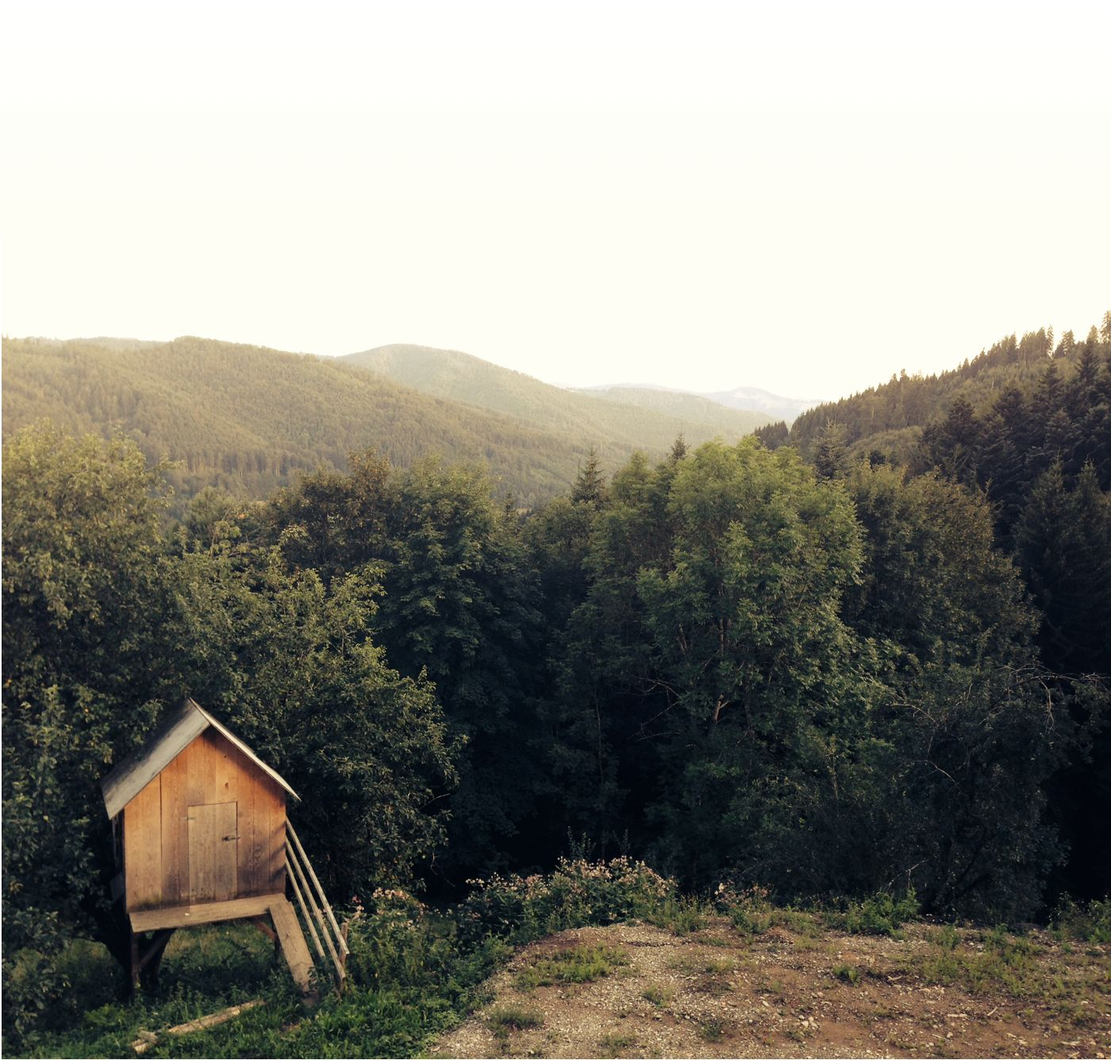
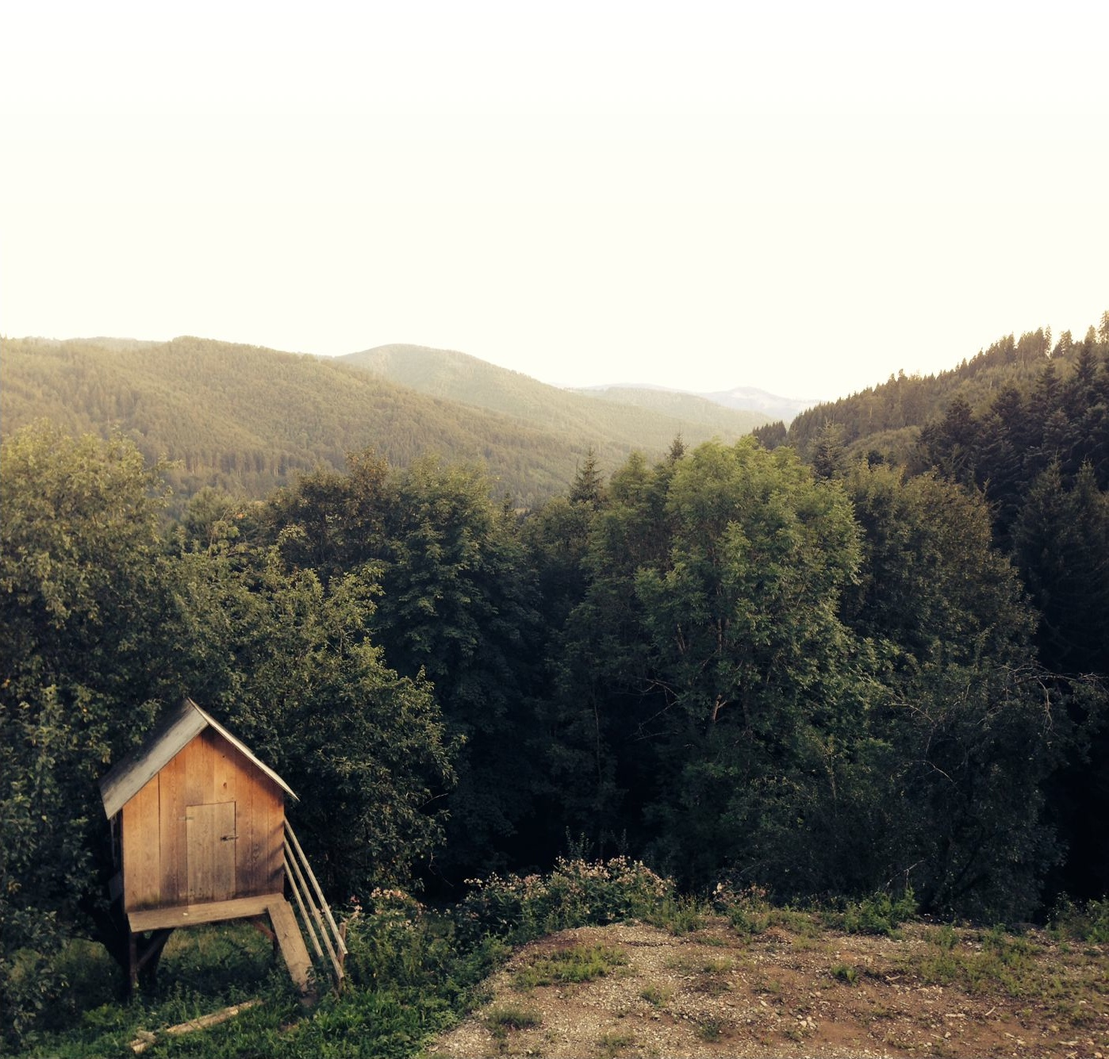
added menu on hover, click. edited bcg image of about

diff --git a/dist/styles/main.css b/dist/styles/main.css
@@ -1,1 +1,1 @@
[2 lines of base64/hex data omitted]

diff --git a/dist/navigation.html b/dist/navigation.html
@@ -1,1 +1,1 @@
-<nav class="visible"><div class="menu-button"><div class="icon"></div></div><div class="navigation-wrap"><ul><li class="sticked-top"><a href="http://moot.greenwoodents.com/"><div class="icon"><?xml version="1.0" encoding="UTF-8" standalone="no"?><svg width="14px" height="15px" viewbox="0 0 14 15" version="1.1" xmlns="http://www.w3.org/2000/svg" xmlns:xlink="http://www.w3.org/1999/xlink" xmlns:sketch="http://www.bohemiancoding.com/sketch/ns"><defs></defs><g id="Page-1" stroke="none" stroke-width="1" fill="none" fill-rule="evenodd" sketch:type="MSPage"><g id="all-pages-in-one" sketch:type="MSArtboardGroup" transform="translate(-1216.000000, -92.000000)"><g id="Home" sketch:type="MSLayerGroup" transform="translate(-64.000000, 40.000000)"><g id="we-plant-and-craft-app-to-endure" transform="translate(0.000000, 46.000000)"></g><g id="process:we-plant-and-craft-app-to-endure" transform="translate(0.000000, 46.000000)"></g><g id="menu:-homepage" transform="translate(1120.000000, 0.000000)"><g id="opened-menu"><g id="illustrations" transform="translate(137.000000, 56.000000)" class="shape" sketch:type="MSShapeGroup"><path d="M24.75,0.75862069 L35.25,0.75862069 L35.25,7.96551724 L30,7.96551724 C29.910375,7.96551724 29.8239375,7.99794828 29.755875,8.05674138 L27.75,9.79587931 L27.75,8.34482759 C27.75,8.13544828 27.582,7.96551724 27.375,7.96551724 L24.75,7.96551724 L24.75,0.75862069 Z M24,8.34482759 C24,8.5542069 24.168,8.72413793 24.375,8.72413793 L27,8.72413793 L27,10.6206897 C27,10.7688103 27.0853125,10.9034655 27.21825,10.9652931 C27.2685,10.9886207 27.32175,11 27.375,11 C27.46275,11 27.54975,10.9687069 27.619125,10.9087759 L30.13875,8.72413793 L35.625,8.72413793 C35.832,8.72413793 36,8.5542069 36,8.34482759 L36,0.379310345 C36,0.169931034 35.832,0 35.625,0 L24.375,0 C24.168,0 24,0.169931034 24,0.379310345 L24,8.34482759 Z M25.875,2.84482759 L34.125,2.84482759 C34.332,2.84482759 34.5,2.67489655 34.5,2.46551724 C34.5,2.25613793 34.332,2.0862069 34.125,2.0862069 L25.875,2.0862069 C25.668,2.0862069 25.5,2.25613793 25.5,2.46551724 C25.5,2.67489655 25.668,2.84482759 25.875,2.84482759 Z M25.875,4.74137931 L34.125,4.74137931 C34.332,4.74137931 34.5,4.57144828 34.5,4.36206897 C34.5,4.15268966 34.332,3.98275862 34.125,3.98275862 L25.875,3.98275862 C25.668,3.98275862 25.5,4.15268966 25.5,4.36206897 C25.5,4.57144828 25.668,4.74137931 25.875,4.74137931 Z M34.5,6.25862069 C34.5,6.04924138 34.332,5.87931034 34.125,5.87931034 L25.875,5.87931034 C25.668,5.87931034 25.5,6.04924138 25.5,6.25862069 C25.5,6.468 25.668,6.63793103 25.875,6.63793103 L34.125,6.63793103 C34.332,6.63793103 34.5,6.468 34.5,6.25862069 Z" id="Moot"></path></g></g></g></g></g></g></svg></div>Moot</a></li><li ng-class="{active: isActive('/home')}"><a href="#/home/"><div class="icon"><?xml version="1.0" encoding="UTF-8" standalone="no"?><svg width="14px" height="15px" viewbox="0 0 14 15" version="1.1" xmlns="http://www.w3.org/2000/svg" xmlns:xlink="http://www.w3.org/1999/xlink" xmlns:sketch="http://www.bohemiancoding.com/sketch/ns"><defs></defs><g id="Page-1" stroke="none" stroke-width="1" fill="none" fill-rule="evenodd" sketch:type="MSPage"><g id="all-pages-in-one" sketch:type="MSArtboardGroup" transform="translate(-1216.000000, -139.000000)"><g id="Home" sketch:type="MSLayerGroup" transform="translate(-64.000000, 40.000000)"><g id="we-plant-and-craft-app-to-endure" transform="translate(0.000000, 46.000000)"><g id="lines" transform="translate(0.000000, 40.000000)"></g></g><g id="process:we-plant-and-craft-app-to-endure" transform="translate(0.000000, 46.000000)"><g id="lines" transform="translate(0.000000, 40.000000)"></g></g><g id="menu:-homepage" transform="translate(1120.000000, 0.000000)"><g id="opened-menu"><g id="illustrations" transform="translate(137.000000, 56.000000)" class="shape" sketch:type="MSShapeGroup"><path d="M28.5,54.25 C28.293,54.25 28.125,54.418 28.125,54.625 L28.125,57.25 L26.625,57.25 L26.625,52 C26.625,51.793 26.4571875,51.625 26.25,51.625 L25.28025,51.625 L30,46.90525 L34.71975,51.625 L33.75,51.625 C33.543,51.625 33.375,51.793 33.375,52 L33.375,57.25 L31.875,57.25 L31.875,54.625 C31.875,54.418 31.7071875,54.25 31.5,54.25 L28.5,54.25 Z M31.5,58 L33.75,58 C33.9571875,58 34.125,57.832 34.125,57.625 L34.125,52.375 L35.625,52.375 C35.7766875,52.375 35.9135625,52.2836875 35.9715,52.143625 C36.029625,52.003375 35.997375,51.842125 35.890125,51.734875 L30.265125,46.109875 C30.1186875,45.9634375 29.8813125,45.9634375 29.734875,46.109875 L24.109875,51.734875 C24.002625,51.842125 23.97075,52.003375 24.0285,52.143625 C24.0868125,52.2836875 24.2233125,52.375 24.375,52.375 L25.875,52.375 L25.875,57.625 C25.875,57.832 26.043,58 26.25,58 L28.5,58 C28.7071875,58 28.875,57.832 28.875,57.625 L28.875,55 L31.125,55 L31.125,57.625 C31.125,57.832 31.293,58 31.5,58 L31.5,58 Z" id="HOME"></path></g></g></g></g></g></g></svg></div>Home</a></li><li ng-class="{active: isActive('/about')}"><a href="#/about/"><div class="icon"><?xml version="1.0" encoding="UTF-8" standalone="no"?><svg width="14px" height="15px" viewbox="0 0 14 15" version="1.1" xmlns="http://www.w3.org/2000/svg" xmlns:xlink="http://www.w3.org/1999/xlink" xmlns:sketch="http://www.bohemiancoding.com/sketch/ns"><defs></defs><g id="Page-1" stroke="none" stroke-width="1" fill="none" fill-rule="evenodd" sketch:type="MSPage"><g id="all-pages-in-one" sketch:type="MSArtboardGroup" transform="translate(-1191.000000, -172.000000)"><g id="Home" sketch:type="MSLayerGroup" transform="translate(-64.000000, 40.000000)"><g id="we-plant-and-craft-app-to-endure" transform="translate(0.000000, 46.000000)"><g id="lines" transform="translate(0.000000, 40.000000)"></g></g><g id="process:we-plant-and-craft-app-to-endure" transform="translate(0.000000, 46.000000)"><g id="lines" transform="translate(0.000000, 40.000000)"></g></g><g id="menu:-homepage" transform="translate(1120.000000, 0.000000)" class="shape" sketch:type="MSShapeGroup"><g id="opened-menu"><g id="illustrations" transform="translate(137.000000, 56.000000)"><path d="M2.625,80.2802688 L2.625,81.6250188 L1.28025,81.6250188 L2.625,80.2802688 Z M8.25,79.7500187 L8.25,90.2500187 L0.75,90.2500187 L0.75,82.3750187 L2.625,82.3750187 C3.038625,82.3750187 3.375,82.0386437 3.375,81.6250187 L3.375,79.7500187 L8.25,79.7500187 Z M8.25,91.0000187 C8.663625,91.0000187 9,90.6636437 9,90.2500187 L9,79.7500187 C9,79.3363937 8.663625,79.0000187 8.25,79.0000187 L3.375,79.0000187 C3.067875,79.0000187 2.68725,79.1577062 2.46975,79.3750187 L0.375,81.4695812 C0.1576875,81.6868937 0,82.0675187 0,82.3750187 L0,90.2500187 C0,90.6636437 0.336375,91.0000187 0.75,91.0000187 L8.25,91.0000187 Z M4.5,82 L6.75,82 C6.957,82 7.125,81.832 7.125,81.625 C7.125,81.418 6.957,81.25 6.75,81.25 L4.5,81.25 C4.293,81.25 4.125,81.418 4.125,81.625 C4.125,81.832 4.293,82 4.5,82 Z M6.75,83.125 L2.25,83.125 C2.043,83.125 1.875,83.293 1.875,83.5 C1.875,83.707 2.043,83.875 2.25,83.875 L6.75,83.875 C6.957,83.875 7.125,83.707 7.125,83.5 C7.125,83.293 6.957,83.125 6.75,83.125 Z M6.75,85 L2.25,85 C2.043,85 1.875,85.168 1.875,85.375 C1.875,85.582 2.043,85.75 2.25,85.75 L6.75,85.75 C6.957,85.75 7.125,85.582 7.125,85.375 C7.125,85.168 6.957,85 6.75,85 Z M6.75,86.875 L2.25,86.875 C2.043,86.875 1.875,87.043 1.875,87.25 C1.875,87.457 2.043,87.625 2.25,87.625 L6.75,87.625 C6.957,87.625 7.125,87.457 7.125,87.25 C7.125,87.043 6.957,86.875 6.75,86.875 Z M6.75,88.75 L2.25,88.75 C2.043,88.75 1.875,88.918 1.875,89.125 C1.875,89.332 2.043,89.5 2.25,89.5 L6.75,89.5 C6.957,89.5 7.125,89.332 7.125,89.125 C7.125,88.918 6.957,88.75 6.75,88.75 Z" id="company"></path></g></g></g></g></g></g></svg></div>Company</a></li><li ng-class="{active: isActive('/work')}"><a href="#/work/"><div class="icon"><?xml version="1.0" encoding="UTF-8" standalone="no"?><svg width="14px" height="15px" viewbox="0 0 14 15" version="1.1" xmlns="http://www.w3.org/2000/svg" xmlns:xlink="http://www.w3.org/1999/xlink" xmlns:sketch="http://www.bohemiancoding.com/sketch/ns"><defs></defs><g id="Page-1" stroke="none" stroke-width="1" fill="none" fill-rule="evenodd" sketch:type="MSPage"><g id="all-pages-in-one" sketch:type="MSArtboardGroup" transform="translate(-1215.000000, -202.000000)"><g id="Home" sketch:type="MSLayerGroup" transform="translate(-64.000000, 40.000000)"><g id="we-plant-and-craft-app-to-endure" transform="translate(0.000000, 46.000000)"><g id="lines" transform="translate(0.000000, 40.000000)"></g></g><g id="process:we-plant-and-craft-app-to-endure" transform="translate(0.000000, 46.000000)"><g id="lines" transform="translate(0.000000, 40.000000)"></g></g><g id="menu:-homepage" transform="translate(1120.000000, 0.000000)"><g id="opened-menu"><g id="illustrations" transform="translate(137.000000, 56.000000)" class="shape" sketch:type="MSShapeGroup"><path d="M23.75,120.25 L23.75,116.5 L27.6875,116.5 L27.6875,117.25 C27.6875,117.457 27.8555,117.625 28.0625,117.625 L29.9375,117.625 C30.1446875,117.625 30.3125,117.457 30.3125,117.25 L30.3125,116.5 L34.25,116.5 L34.25,120.25 L23.75,120.25 Z M28.4375,116.5 L29.5625,116.5 L29.5625,116.875 L28.4375,116.875 L28.4375,116.5 Z M34.25,115.75 L23.75,115.75 L23.75,114.25 L34.25,114.25 L34.25,115.75 Z M29,112.75 C29.813,112.75 30.12125,113.17075 30.2391875,113.5 L27.7604375,113.5 C27.878375,113.172625 28.188125,112.75 29,112.75 L29,112.75 Z M34.625,113.5 L31.0113125,113.5 C30.887,112.952875 30.4608125,112 29,112 C27.5391875,112 27.113,112.952875 26.9886875,113.5 L23.375,113.5 C23.168,113.5 23,113.668 23,113.875 L23,120.625 C23,120.832 23.168,121 23.375,121 L34.625,121 C34.8321875,121 35,120.832 35,120.625 L35,113.875 C35,113.668 34.8321875,113.5 34.625,113.5 L34.625,113.5 Z" id="work"></path></g></g></g></g></g></g></svg></div>Work</a></li><li class="sticked-bottom"><a href=""><div class="icon"><?xml version="1.0" encoding="UTF-8" standalone="no"?><svg width="14px" height="15px" viewbox="0 0 14 15" version="1.1" xmlns="http://www.w3.org/2000/svg" xmlns:xlink="http://www.w3.org/1999/xlink" xmlns:sketch="http://www.bohemiancoding.com/sketch/ns"><defs></defs><g id="Page-1" stroke="none" stroke-width="1" fill="none" fill-rule="evenodd" sketch:type="MSPage"><g id="all-pages-in-one" sketch:type="MSArtboardGroup" transform="translate(-1202.000000, -247.000000)"><g id="Home" sketch:type="MSLayerGroup" transform="translate(-64.000000, 40.000000)"><g id="we-plant-and-craft-app-to-endure" transform="translate(0.000000, 46.000000)"><g id="lines" transform="translate(0.000000, 40.000000)"></g></g><g id="process:we-plant-and-craft-app-to-endure" transform="translate(0.000000, 46.000000)"><g id="lines" transform="translate(0.000000, 40.000000)"></g></g><g id="menu:-homepage" transform="translate(1120.000000, 0.000000)" class="shape" sketch:type="MSShapeGroup"><g id="opened-menu"><g id="illustrations" transform="translate(137.000000, 56.000000)"><path d="M10.75,165.25 L10.75,159.620312 L15.8021875,162.756062 C15.8629375,162.793562 15.931375,162.8125 16,162.8125 C16.068625,162.8125 16.1370625,162.793562 16.1978125,162.756062 L21.25,159.620312 L21.25,165.25 L10.75,165.25 Z M11.875,159.435812 L11.133625,158.9755 L11.875,158.679062 L11.875,159.435812 Z M19.375,154.75 L19.375,158.130812 L19.375,158.133062 L19.375,159.901375 L16,161.996125 L12.625,159.901375 L12.625,158.133062 L12.625,158.130812 L12.625,154.75 L19.375,154.75 Z M20.866375,158.9755 L20.125,159.435812 L20.125,158.679062 L20.866375,158.9755 Z M21.7643125,158.526813 L20.125,157.871125 L20.125,154.375 C20.125,154.168 19.957,154 19.75,154 L12.25,154 C12.043,154 11.875,154.168 11.875,154.375 L11.875,157.871125 L10.2356875,158.526813 C10.08925,158.5855 10.0005625,158.726125 10.000375,158.875 L10,158.875 L10,165.625 C10,165.832 10.168,166 10.375,166 L21.625,166 C21.832,166 22,165.832 22,165.625 L22,158.875 L21.999625,158.875 C21.9994375,158.726125 21.91075,158.5855 21.7643125,158.526813 Z M16.75,156.25 L18.25,156.25 C18.457,156.25 18.625,156.082 18.625,155.875 C18.625,155.668 18.457,155.5 18.25,155.5 L16.75,155.5 C16.543,155.5 16.375,155.668 16.375,155.875 C16.375,156.082 16.543,156.25 16.75,156.25 Z M13.75,157.75 L18.25,157.75 C18.457,157.75 18.625,157.582 18.625,157.375 C18.625,157.168 18.457,157 18.25,157 L13.75,157 C13.543,157 13.375,157.168 13.375,157.375 C13.375,157.582 13.543,157.75 13.75,157.75 Z M13.75,159.25 L18.25,159.25 C18.457,159.25 18.625,159.082 18.625,158.875 C18.625,158.668 18.457,158.5 18.25,158.5 L13.75,158.5 C13.543,158.5 13.375,158.668 13.375,158.875 C13.375,159.082 13.543,159.25 13.75,159.25 Z" id="mail"></path></g></g></g></g></g></g></svg></div>Hire us</a></li></ul></div></nav>
+<nav ng-mouseover="hoverIn()" ng-mouseleave="hoverOut()" ng-click="click()" ng-class="{hide:!showmenu, visible:showmenu}" ng-controller="showNavController"><div class="menu-button"><div class="icon"></div></div><div class="navigation-wrap"><ul><li class="sticked-top"><a href="http://moot.greenwoodents.com/"><div class="icon"><?xml version="1.0" encoding="UTF-8" standalone="no"?><svg width="14px" height="15px" viewbox="0 0 14 15" version="1.1" xmlns="http://www.w3.org/2000/svg" xmlns:xlink="http://www.w3.org/1999/xlink" xmlns:sketch="http://www.bohemiancoding.com/sketch/ns"><defs></defs><g id="Page-1" stroke="none" stroke-width="1" fill="none" fill-rule="evenodd" sketch:type="MSPage"><g id="all-pages-in-one" sketch:type="MSArtboardGroup" transform="translate(-1216.000000, -92.000000)"><g id="Home" sketch:type="MSLayerGroup" transform="translate(-64.000000, 40.000000)"><g id="we-plant-and-craft-app-to-endure" transform="translate(0.000000, 46.000000)"></g><g id="process:we-plant-and-craft-app-to-endure" transform="translate(0.000000, 46.000000)"></g><g id="menu:-homepage" transform="translate(1120.000000, 0.000000)"><g id="opened-menu"><g id="illustrations" transform="translate(137.000000, 56.000000)" class="shape" sketch:type="MSShapeGroup"><path d="M24.75,0.75862069 L35.25,0.75862069 L35.25,7.96551724 L30,7.96551724 C29.910375,7.96551724 29.8239375,7.99794828 29.755875,8.05674138 L27.75,9.79587931 L27.75,8.34482759 C27.75,8.13544828 27.582,7.96551724 27.375,7.96551724 L24.75,7.96551724 L24.75,0.75862069 Z M24,8.34482759 C24,8.5542069 24.168,8.72413793 24.375,8.72413793 L27,8.72413793 L27,10.6206897 C27,10.7688103 27.0853125,10.9034655 27.21825,10.9652931 C27.2685,10.9886207 27.32175,11 27.375,11 C27.46275,11 27.54975,10.9687069 27.619125,10.9087759 L30.13875,8.72413793 L35.625,8.72413793 C35.832,8.72413793 36,8.5542069 36,8.34482759 L36,0.379310345 C36,0.169931034 35.832,0 35.625,0 L24.375,0 C24.168,0 24,0.169931034 24,0.379310345 L24,8.34482759 Z M25.875,2.84482759 L34.125,2.84482759 C34.332,2.84482759 34.5,2.67489655 34.5,2.46551724 C34.5,2.25613793 34.332,2.0862069 34.125,2.0862069 L25.875,2.0862069 C25.668,2.0862069 25.5,2.25613793 25.5,2.46551724 C25.5,2.67489655 25.668,2.84482759 25.875,2.84482759 Z M25.875,4.74137931 L34.125,4.74137931 C34.332,4.74137931 34.5,4.57144828 34.5,4.36206897 C34.5,4.15268966 34.332,3.98275862 34.125,3.98275862 L25.875,3.98275862 C25.668,3.98275862 25.5,4.15268966 25.5,4.36206897 C25.5,4.57144828 25.668,4.74137931 25.875,4.74137931 Z M34.5,6.25862069 C34.5,6.04924138 34.332,5.87931034 34.125,5.87931034 L25.875,5.87931034 C25.668,5.87931034 25.5,6.04924138 25.5,6.25862069 C25.5,6.468 25.668,6.63793103 25.875,6.63793103 L34.125,6.63793103 C34.332,6.63793103 34.5,6.468 34.5,6.25862069 Z" id="Moot"></path></g></g></g></g></g></g></svg></div>Moot</a></li><li ng-class="{active: isActive('/home')}"><a href="#/home/"><div class="icon"><?xml version="1.0" encoding="UTF-8" standalone="no"?><svg width="14px" height="15px" viewbox="0 0 14 15" version="1.1" xmlns="http://www.w3.org/2000/svg" xmlns:xlink="http://www.w3.org/1999/xlink" xmlns:sketch="http://www.bohemiancoding.com/sketch/ns"><defs></defs><g id="Page-1" stroke="none" stroke-width="1" fill="none" fill-rule="evenodd" sketch:type="MSPage"><g id="all-pages-in-one" sketch:type="MSArtboardGroup" transform="translate(-1216.000000, -139.000000)"><g id="Home" sketch:type="MSLayerGroup" transform="translate(-64.000000, 40.000000)"><g id="we-plant-and-craft-app-to-endure" transform="translate(0.000000, 46.000000)"><g id="lines" transform="translate(0.000000, 40.000000)"></g></g><g id="process:we-plant-and-craft-app-to-endure" transform="translate(0.000000, 46.000000)"><g id="lines" transform="translate(0.000000, 40.000000)"></g></g><g id="menu:-homepage" transform="translate(1120.000000, 0.000000)"><g id="opened-menu"><g id="illustrations" transform="translate(137.000000, 56.000000)" class="shape" sketch:type="MSShapeGroup"><path d="M28.5,54.25 C28.293,54.25 28.125,54.418 28.125,54.625 L28.125,57.25 L26.625,57.25 L26.625,52 C26.625,51.793 26.4571875,51.625 26.25,51.625 L25.28025,51.625 L30,46.90525 L34.71975,51.625 L33.75,51.625 C33.543,51.625 33.375,51.793 33.375,52 L33.375,57.25 L31.875,57.25 L31.875,54.625 C31.875,54.418 31.7071875,54.25 31.5,54.25 L28.5,54.25 Z M31.5,58 L33.75,58 C33.9571875,58 34.125,57.832 34.125,57.625 L34.125,52.375 L35.625,52.375 C35.7766875,52.375 35.9135625,52.2836875 35.9715,52.143625 C36.029625,52.003375 35.997375,51.842125 35.890125,51.734875 L30.265125,46.109875 C30.1186875,45.9634375 29.8813125,45.9634375 29.734875,46.109875 L24.109875,51.734875 C24.002625,51.842125 23.97075,52.003375 24.0285,52.143625 C24.0868125,52.2836875 24.2233125,52.375 24.375,52.375 L25.875,52.375 L25.875,57.625 C25.875,57.832 26.043,58 26.25,58 L28.5,58 C28.7071875,58 28.875,57.832 28.875,57.625 L28.875,55 L31.125,55 L31.125,57.625 C31.125,57.832 31.293,58 31.5,58 L31.5,58 Z" id="HOME"></path></g></g></g></g></g></g></svg></div>Home</a></li><li ng-class="{active: isActive('/about')}"><a href="#/about/"><div class="icon"><?xml version="1.0" encoding="UTF-8" standalone="no"?><svg width="14px" height="15px" viewbox="0 0 14 15" version="1.1" xmlns="http://www.w3.org/2000/svg" xmlns:xlink="http://www.w3.org/1999/xlink" xmlns:sketch="http://www.bohemiancoding.com/sketch/ns"><defs></defs><g id="Page-1" stroke="none" stroke-width="1" fill="none" fill-rule="evenodd" sketch:type="MSPage"><g id="all-pages-in-one" sketch:type="MSArtboardGroup" transform="translate(-1191.000000, -172.000000)"><g id="Home" sketch:type="MSLayerGroup" transform="translate(-64.000000, 40.000000)"><g id="we-plant-and-craft-app-to-endure" transform="translate(0.000000, 46.000000)"><g id="lines" transform="translate(0.000000, 40.000000)"></g></g><g id="process:we-plant-and-craft-app-to-endure" transform="translate(0.000000, 46.000000)"><g id="lines" transform="translate(0.000000, 40.000000)"></g></g><g id="menu:-homepage" transform="translate(1120.000000, 0.000000)" class="shape" sketch:type="MSShapeGroup"><g id="opened-menu"><g id="illustrations" transform="translate(137.000000, 56.000000)"><path d="M2.625,80.2802688 L2.625,81.6250188 L1.28025,81.6250188 L2.625,80.2802688 Z M8.25,79.7500187 L8.25,90.2500187 L0.75,90.2500187 L0.75,82.3750187 L2.625,82.3750187 C3.038625,82.3750187 3.375,82.0386437 3.375,81.6250187 L3.375,79.7500187 L8.25,79.7500187 Z M8.25,91.0000187 C8.663625,91.0000187 9,90.6636437 9,90.2500187 L9,79.7500187 C9,79.3363937 8.663625,79.0000187 8.25,79.0000187 L3.375,79.0000187 C3.067875,79.0000187 2.68725,79.1577062 2.46975,79.3750187 L0.375,81.4695812 C0.1576875,81.6868937 0,82.0675187 0,82.3750187 L0,90.2500187 C0,90.6636437 0.336375,91.0000187 0.75,91.0000187 L8.25,91.0000187 Z M4.5,82 L6.75,82 C6.957,82 7.125,81.832 7.125,81.625 C7.125,81.418 6.957,81.25 6.75,81.25 L4.5,81.25 C4.293,81.25 4.125,81.418 4.125,81.625 C4.125,81.832 4.293,82 4.5,82 Z M6.75,83.125 L2.25,83.125 C2.043,83.125 1.875,83.293 1.875,83.5 C1.875,83.707 2.043,83.875 2.25,83.875 L6.75,83.875 C6.957,83.875 7.125,83.707 7.125,83.5 C7.125,83.293 6.957,83.125 6.75,83.125 Z M6.75,85 L2.25,85 C2.043,85 1.875,85.168 1.875,85.375 C1.875,85.582 2.043,85.75 2.25,85.75 L6.75,85.75 C6.957,85.75 7.125,85.582 7.125,85.375 C7.125,85.168 6.957,85 6.75,85 Z M6.75,86.875 L2.25,86.875 C2.043,86.875 1.875,87.043 1.875,87.25 C1.875,87.457 2.043,87.625 2.25,87.625 L6.75,87.625 C6.957,87.625 7.125,87.457 7.125,87.25 C7.125,87.043 6.957,86.875 6.75,86.875 Z M6.75,88.75 L2.25,88.75 C2.043,88.75 1.875,88.918 1.875,89.125 C1.875,89.332 2.043,89.5 2.25,89.5 L6.75,89.5 C6.957,89.5 7.125,89.332 7.125,89.125 C7.125,88.918 6.957,88.75 6.75,88.75 Z" id="company"></path></g></g></g></g></g></g></svg></div>Company</a></li><li ng-class="{active: isActive('/work')}"><a href="#/work/"><div class="icon"><?xml version="1.0" encoding="UTF-8" standalone="no"?><svg width="14px" height="15px" viewbox="0 0 14 15" version="1.1" xmlns="http://www.w3.org/2000/svg" xmlns:xlink="http://www.w3.org/1999/xlink" xmlns:sketch="http://www.bohemiancoding.com/sketch/ns"><defs></defs><g id="Page-1" stroke="none" stroke-width="1" fill="none" fill-rule="evenodd" sketch:type="MSPage"><g id="all-pages-in-one" sketch:type="MSArtboardGroup" transform="translate(-1215.000000, -202.000000)"><g id="Home" sketch:type="MSLayerGroup" transform="translate(-64.000000, 40.000000)"><g id="we-plant-and-craft-app-to-endure" transform="translate(0.000000, 46.000000)"><g id="lines" transform="translate(0.000000, 40.000000)"></g></g><g id="process:we-plant-and-craft-app-to-endure" transform="translate(0.000000, 46.000000)"><g id="lines" transform="translate(0.000000, 40.000000)"></g></g><g id="menu:-homepage" transform="translate(1120.000000, 0.000000)"><g id="opened-menu"><g id="illustrations" transform="translate(137.000000, 56.000000)" class="shape" sketch:type="MSShapeGroup"><path d="M23.75,120.25 L23.75,116.5 L27.6875,116.5 L27.6875,117.25 C27.6875,117.457 27.8555,117.625 28.0625,117.625 L29.9375,117.625 C30.1446875,117.625 30.3125,117.457 30.3125,117.25 L30.3125,116.5 L34.25,116.5 L34.25,120.25 L23.75,120.25 Z M28.4375,116.5 L29.5625,116.5 L29.5625,116.875 L28.4375,116.875 L28.4375,116.5 Z M34.25,115.75 L23.75,115.75 L23.75,114.25 L34.25,114.25 L34.25,115.75 Z M29,112.75 C29.813,112.75 30.12125,113.17075 30.2391875,113.5 L27.7604375,113.5 C27.878375,113.172625 28.188125,112.75 29,112.75 L29,112.75 Z M34.625,113.5 L31.0113125,113.5 C30.887,112.952875 30.4608125,112 29,112 C27.5391875,112 27.113,112.952875 26.9886875,113.5 L23.375,113.5 C23.168,113.5 23,113.668 23,113.875 L23,120.625 C23,120.832 23.168,121 23.375,121 L34.625,121 C34.8321875,121 35,120.832 35,120.625 L35,113.875 C35,113.668 34.8321875,113.5 34.625,113.5 L34.625,113.5 Z" id="work"></path></g></g></g></g></g></g></svg></div>Work</a></li><li class="sticked-bottom"><a href=""><div class="icon"><?xml version="1.0" encoding="UTF-8" standalone="no"?><svg width="14px" height="15px" viewbox="0 0 14 15" version="1.1" xmlns="http://www.w3.org/2000/svg" xmlns:xlink="http://www.w3.org/1999/xlink" xmlns:sketch="http://www.bohemiancoding.com/sketch/ns"><defs></defs><g id="Page-1" stroke="none" stroke-width="1" fill="none" fill-rule="evenodd" sketch:type="MSPage"><g id="all-pages-in-one" sketch:type="MSArtboardGroup" transform="translate(-1202.000000, -247.000000)"><g id="Home" sketch:type="MSLayerGroup" transform="translate(-64.000000, 40.000000)"><g id="we-plant-and-craft-app-to-endure" transform="translate(0.000000, 46.000000)"><g id="lines" transform="translate(0.000000, 40.000000)"></g></g><g id="process:we-plant-and-craft-app-to-endure" transform="translate(0.000000, 46.000000)"><g id="lines" transform="translate(0.000000, 40.000000)"></g></g><g id="menu:-homepage" transform="translate(1120.000000, 0.000000)" class="shape" sketch:type="MSShapeGroup"><g id="opened-menu"><g id="illustrations" transform="translate(137.000000, 56.000000)"><path d="M10.75,165.25 L10.75,159.620312 L15.8021875,162.756062 C15.8629375,162.793562 15.931375,162.8125 16,162.8125 C16.068625,162.8125 16.1370625,162.793562 16.1978125,162.756062 L21.25,159.620312 L21.25,165.25 L10.75,165.25 Z M11.875,159.435812 L11.133625,158.9755 L11.875,158.679062 L11.875,159.435812 Z M19.375,154.75 L19.375,158.130812 L19.375,158.133062 L19.375,159.901375 L16,161.996125 L12.625,159.901375 L12.625,158.133062 L12.625,158.130812 L12.625,154.75 L19.375,154.75 Z M20.866375,158.9755 L20.125,159.435812 L20.125,158.679062 L20.866375,158.9755 Z M21.7643125,158.526813 L20.125,157.871125 L20.125,154.375 C20.125,154.168 19.957,154 19.75,154 L12.25,154 C12.043,154 11.875,154.168 11.875,154.375 L11.875,157.871125 L10.2356875,158.526813 C10.08925,158.5855 10.0005625,158.726125 10.000375,158.875 L10,158.875 L10,165.625 C10,165.832 10.168,166 10.375,166 L21.625,166 C21.832,166 22,165.832 22,165.625 L22,158.875 L21.999625,158.875 C21.9994375,158.726125 21.91075,158.5855 21.7643125,158.526813 Z M16.75,156.25 L18.25,156.25 C18.457,156.25 18.625,156.082 18.625,155.875 C18.625,155.668 18.457,155.5 18.25,155.5 L16.75,155.5 C16.543,155.5 16.375,155.668 16.375,155.875 C16.375,156.082 16.543,156.25 16.75,156.25 Z M13.75,157.75 L18.25,157.75 C18.457,157.75 18.625,157.582 18.625,157.375 C18.625,157.168 18.457,157 18.25,157 L13.75,157 C13.543,157 13.375,157.168 13.375,157.375 C13.375,157.582 13.543,157.75 13.75,157.75 Z M13.75,159.25 L18.25,159.25 C18.457,159.25 18.625,159.082 18.625,158.875 C18.625,158.668 18.457,158.5 18.25,158.5 L13.75,158.5 C13.543,158.5 13.375,158.668 13.375,158.875 C13.375,159.082 13.543,159.25 13.75,159.25 Z" id="mail"></path></g></g></g></g></g></g></svg></div>Hire us</a></li></ul></div></nav>

diff --git a/dist/scripts/main.js b/dist/scripts/main.js
@@ -41,10 +41,35 @@ var mainApp = angular.module('app.home', ['ngRoute', 'ngAnimate']);
     $scope.version = '0';
     $scope.isActive = function(route) {
         return route === $location.path();
-
-
-    }
+    }   
   });
+
+  mainApp.controller('showNavController', function($scope, $location) {
+    //default the menu to not show
+    $scope.showmenu = false;
+
+    $scope.hoverIn = function(){
+      this.showmenu = true;
+    };
+
+    $scope.hoverOut = function(){
+      this.showmenu = false;
+    };
+
+    $scope.click = function(){
+      if ($scope.showmenu) {
+        $scope.showmenu = false;
+      } else {
+        $scope.showmenu = true;
+      };
+    };
+
+  });
+
+
+
+
+
 
 },{}],2:[function(require,module,exports){
 module.exports = angular.module('app.home', []);
@@ -57,4 +82,4 @@ angular.module('app', [
 ]);
 
 },{"./home":2}]},{},[3])
[2 lines of base64/hex data omitted]

diff --git a/dist/company.html b/dist/company.html
@@ -1,1 +1,1 @@
-<section class="about-company"><div class="container"><h3 class="has-divider">The company</h3><h1>Greenwood Ents</h1><p class="mr-b">Based in Czech republic in a beautiful city called Brno, we design and develop landing pages, e-commerce stores and website applications. Sometime it takes a week, but mostly from 1 up to 3 months.</p><h3 class="has-divider">Who are we?</h3><div class="col filip"><p class="align-left">Filip Daniško<br><b>frontend dev</b></p><div class="avatar"></div></div><div class="col jan"><p class="align-center">Jan Henneberg<br><b>designer</b></p><div class="avatar"></div></div><div class="col martin"><p class="align-right">Martin Halík<br><b>designer</b></p><div class="avatar"></div></div></div></section>
+<section class="about-company"><div class="container"><h3 class="has-divider">The company</h3><h1>Greenwood Ents</h1><p class="mr-b">Based in Czech republic in a beautiful city called Brno, we design and develop landing pages, e-commerce stores and website applications. Sometime it takes a week, but mostly from 1 up to 3 months.</p><h3 class="has-divider">Who are we?</h3><div class="col filip"><p class="align-left">Filip Daniško<br><b>frontend dev</b></p><div class="avatar"></div></div><div class="col jan"><p class="align-center">Jan Henneberg<br><b>designer</b></p><div class="avatar"></div></div><div class="col martin"><p class="align-right">Martin Halík<br><b>designer</b></p><div class="avatar"></div></div></div>P</section>

diff --git a/src/styles/base/animations.less b/src/styles/base/animations.less
@@ -10,8 +10,8 @@
 
 .view-animate.ng-enter, .view-animate.ng-leave {
   // can hold removed el for a while.. 
-  -webkit-transition:all cubic-bezier(.67,.25,.51,1) 800ms;
-  transition:all cubic-bezier(.67,.25,.51,1) 800ms;
+  -webkit-transition:all cubic-bezier(.67,.25,.51,1) 600ms;
+  transition:all cubic-bezier(.67,.25,.51,1) 600ms;
 
   display:block;
   width:100%;
@@ -28,8 +28,8 @@
 .view-animate.ng-enter {
   -webkit-animation: moveFromBottom .6s;
   animation: moveFromBottom .6s;
-  -webkit-animation-timing-function: cubic-bezier(.67,.25,.51,1) 800ms; /* Chrome, Safari, Opera */
-  animation-timing-function: cubic-bezier(.67,.25,.51,1) 800ms;
+  -webkit-animation-timing-function: cubic-bezier(.67,.25,.51,1) 600ms; /* Chrome, Safari, Opera */
+  animation-timing-function: cubic-bezier(.67,.25,.51,1) 600ms;
 
   
   position: absolute;
@@ -39,8 +39,8 @@
 .view-animate.ng-leave.ng-leave-active {
   -webkit-animation: scaleDown .8s;
   animation: scaleDown .8s;
-  -webkit-animation-timing-function: cubic-bezier(.67,.25,.51,1) 800ms; /* Chrome, Safari, Opera */
-  animation-timing-function: cubic-bezier(.67,.25,.51,1) 800ms;
+  -webkit-animation-timing-function: cubic-bezier(.67,.25,.51,1) 600ms; /* Chrome, Safari, Opera */
+  animation-timing-function: cubic-bezier(.67,.25,.51,1) 600ms;
   
   position: absolute;
   z-index: -2;

diff --git a/src/scripts/home/HomeCtrl.js b/src/scripts/home/HomeCtrl.js
@@ -40,7 +40,32 @@ var mainApp = angular.module('app.home', ['ngRoute', 'ngAnimate']);
     $scope.version = '0';
     $scope.isActive = function(route) {
         return route === $location.path();
-
-
-    }
+    }   
   });
+
+  mainApp.controller('showNavController', function($scope, $location) {
+    //default the menu to not show
+    $scope.showmenu = false;
+
+    $scope.hoverIn = function(){
+      this.showmenu = true;
+    };
+
+    $scope.hoverOut = function(){
+      this.showmenu = false;
+    };
+
+    $scope.click = function(){
+      if ($scope.showmenu) {
+        $scope.showmenu = false;
+      } else {
+        $scope.showmenu = true;
+      };
+    };
+
+  });
+
+
+
+
+

diff --git a/src/navigation.html b/src/navigation.html
@@ -1,5 +1,5 @@
-<nav class="visible" >
-  <div class="menu-button"><div class="icon"></div></div>
+<nav ng-mouseover="hoverIn()" ng-mouseleave="hoverOut()" ng-click="click()" ng-class="{hide:!showmenu, visible:showmenu}" ng-controller="showNavController">
+  <div  class="menu-button"><div class="icon"></div></div>
     <div class="navigation-wrap">
       <ul>
         <li class="sticked-top"><a href="http://moot.greenwoodents.com/">

diff --git a/src/styles/module/navigation.less b/src/styles/module/navigation.less
@@ -1,6 +1,5 @@
 //visible
 nav.visible {
-
 	.navigation-wrap {
 		width: auto;
 		height: auto;
@@ -9,6 +8,9 @@ nav.visible {
 	}
 }
 
+nav.hide {
+
+}
 
 nav {
 	position: fixed;
@@ -40,7 +42,6 @@ nav {
 	.menu-button {
 		height: 54px;
 		width: 80px;
-		position: relative;
 		cursor: pointer;
 
 		.icon {
@@ -51,7 +52,7 @@ nav {
 
 			position: absolute;
 			top: 20px;
-			right: 0px;
+			right: 17px;
 
 		}
 	}

diff --git a/src/styles/module/homepage.less b/src/styles/module/homepage.less
@@ -11,6 +11,7 @@ body {
 	position: absolute;
 	display: block;
 	width: 100%;
+	padding-bottom: 150px;
 }
 
 .homepage-story {

diff --git a/src/company.html b/src/company.html
@@ -21,7 +21,7 @@
       <b>designer</b></p>
       <div class="avatar"></div>
     </div>
-  </div>
+  </div>P
 </section>
 
 
